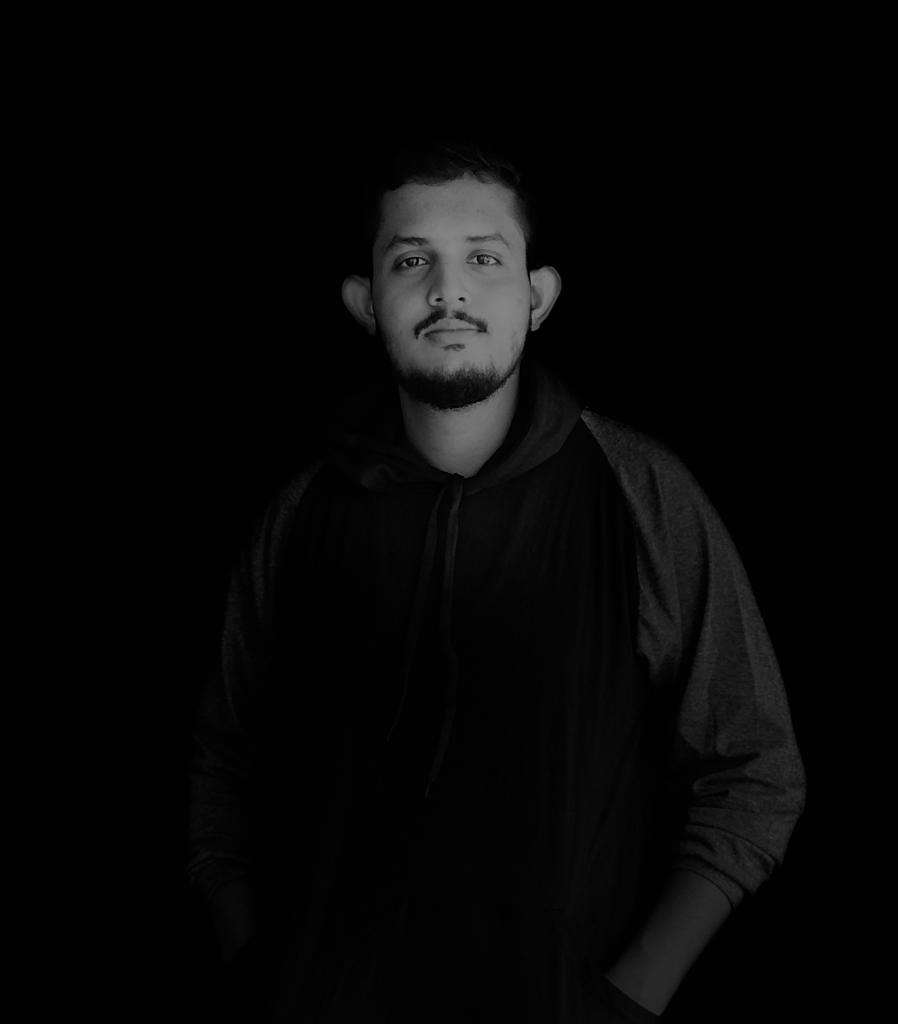
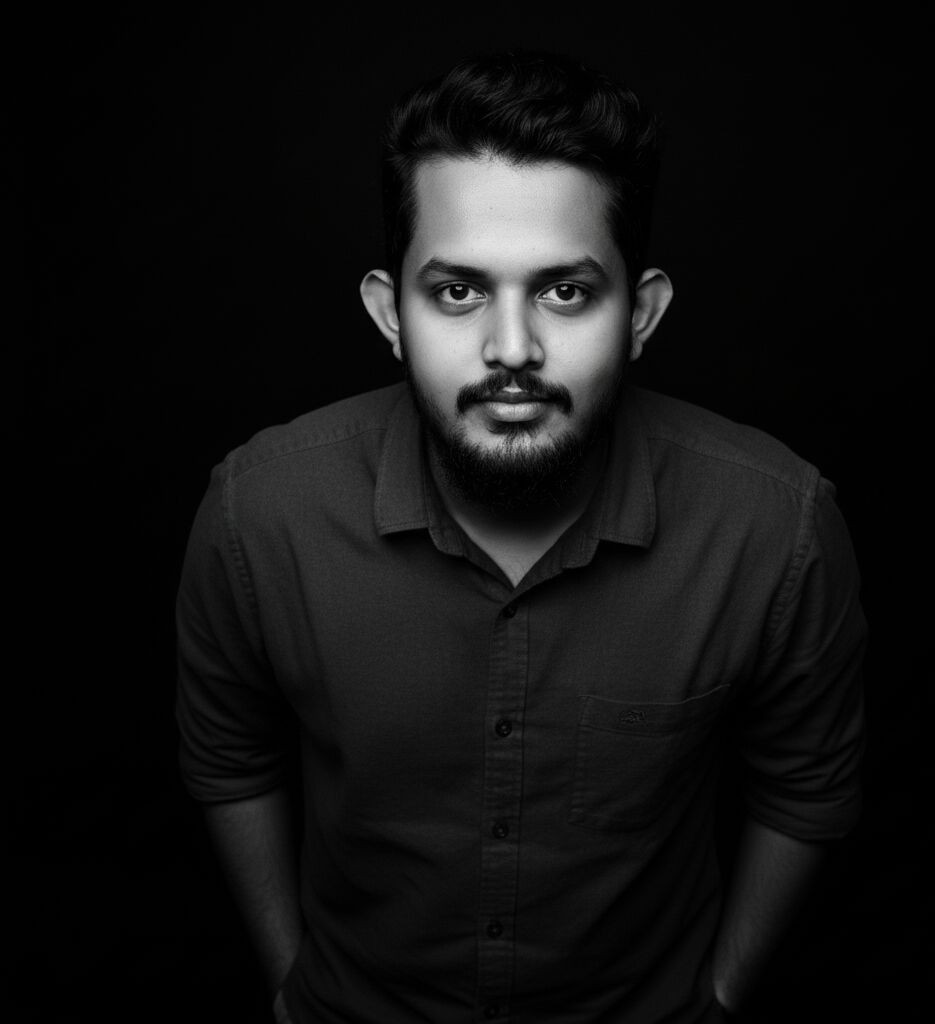
added 2 projects

diff --git a/index.html b/index.html
@@ -185,9 +185,16 @@
         left: 0;
         width: 100%;
         height: 100%;
-        background-image: url(img/parallax-hero.jpg);
+        background-image: 
+        /* linear-gradient(to bottom,#040404 15%,transparent 40%), */
+        /* linear-gradient(to right,#040404 10%,transparent 40%), */
+        /* linear-gradient(to left,#040404 10%,transparent 40%), */
+        /* linear-gradient(to top,#040404 15%,transparent 40%), */
+        url(img/parallax-hero.jpg);
+        /* linear-gradient(to bottom,#040404); */
         background-size: cover;
-        background-position: top;
+        background-repeat: no-repeat;
+        background-position:top center;
         background-attachment: fixed;
         z-index: -1;
         /* Make sure the background is behind the content */
@@ -195,16 +202,11 @@
 
       .hero-content {
         position: absolute;
-        top: 50%;
+        bottom: 0%;
         left: 50%;
-        transform: translate(-50%, -50%);
+        transform: translate(-50%, 0%);
         text-align: center;
         color: white;
-        background: linear-gradient(
-          transparent,
-          rgba(0, 0, 0, 0.6),
-          transparent
-        );
       }
 
       .hero-content h1 {
@@ -219,8 +221,89 @@
       .hero-content p {
         font-size: 1.5rem;
         font-family: "Skranji", cursive;
+        text-shadow: 0.2rem 0.2rem black;
+        letter-spacing: 0.2rem;
       }
+      /*============================================ image popup modal =========================================== */
+/* Popup Modal Styles */
+        .image-modal-overlay {
+            display: none;
+            position: fixed;
+            top: 0;
+            left: 0;
+            width: 100%;
+            height: 100%;
+            background-color: rgba(0, 0, 0, 0.9);
+            z-index: 10000;
+            justify-content: center;
+            align-items: center;
+            opacity: 0;
+            transition: opacity 0.3s ease;
+        }
 
+        .image-modal-overlay.active {
+            display: flex;
+            opacity: 1;
+        }
+
+        .image-modal-content {
+            max-width: 90vw;
+            max-height: 90vh;
+            border-radius: 8px;
+            box-shadow: 0 5px 25px rgba(0, 0, 0, 0.3);
+            transform: scale(0.9);
+            transition: transform 0.3s ease;
+        }
+
+        .image-modal-overlay.active .image-modal-content {
+            transform: scale(1);
+        }
+
+        .image-modal-close {
+            position: absolute;
+            top: 25px;
+            right: 25px;
+            color: white;
+            font-size: 32px;
+            cursor: pointer;
+            background: rgba(0, 0, 0, 0.6);
+            width: 45px;
+            height: 45px;
+            border-radius: 50%;
+            display: flex;
+            justify-content: center;
+            align-items: center;
+            transition: all 0.3s ease;
+            z-index: 10001;
+        }
+
+        .image-modal-close:hover {
+            background: rgba(0, 0, 0, 0.8);
+            transform: rotate(90deg);
+        }
+
+        .image-modal-caption {
+            position: absolute;
+            bottom: 20px;
+            left: 0;
+            width: 100%;
+            text-align: center;
+            color: white;
+            font-size: 18px;
+            padding: 10px;
+            background: linear-gradient(transparent, rgba(0, 0, 0, 0.7));
+        }
+
+        /* Make images clickable */
+        .clickable-image {
+            cursor: pointer;
+            transition: all 0.3s ease;
+        }
+
+        .clickable-image:hover {
+            transform: scale(1.03);
+            box-shadow: 0 5px 15px rgba(0, 0, 0, 0.2);
+        }
       /*=========================================== project section=========================================== */
 
       .project-image {
@@ -606,8 +689,9 @@
               <div id="profile" class="text-center">
                 <img
                   src="img/profile-picture.png"
-                  class="border border-dark border-5"
+                  class="clickable-image border border-dark border-5"
                   alt="Profile Picture"
+                  onclick="openImageModal('img/profile-picture.png', 'Mohammed Anwar - Web Developer')"
                 />
                 <h4 class="profile-name mt-3">Mohd. Anwar</h4>
                 <p class="profile-designation text-muted">Web Developer</p>
@@ -686,20 +770,30 @@
               <div class="parallax-bg"></div>
               <div class="hero-content rounded-3 py-4">
                 <h1>Mohammed Anwar</h1>
-                <p>
+                <!--
+                 <p> 
                   I am a passionate and creative web developer dedicated to
                   crafting engaging and user-friendly websites. With expertise
                   in front-end and back-end development, I bring ideas to life
                   and deliver impactful digital experiences.
                 </p>
+                -->
+
+
+                <!--
                 <p class="text-warning d-none d-md-block">
-                  <!-- content comes from typewriter library -->
                   <i
                     class="bi bi-briefcase text-danger h2"
                     style="filter: drop-shadow(0.2rem 0.2rem 0.2rem red)"
                   ></i>
-                  <span id="typewriter"></span>
+                  <span id="currentStatusTypeWriter"></span>
                 </p>
+                -->
+
+                <!--my designation typewriter effect-->
+                <p id="myDesignationTypeWriter"></p>
+
+
               </div>
             </section>
           </section>
@@ -788,10 +882,6 @@
             <div id="freelance-projects"></div>
             <div id="training-projects"></div>
 
-            <p>
-              and many other MERN stack,Django and PHP ecommerce non-live
-              projects...
-            </p>
           </section>
           <!--ends projects section-->
 
@@ -1402,6 +1492,63 @@
       </div>
     </div>
 
+    
+ <!-- The Reusable Image Modal -->
+    <div id="imageModal" class="image-modal-overlay" onclick="closeImageModal()">
+        <span class="image-modal-close" onclick="closeImageModal()">&times;</span>
+        <img class="image-modal-content" id="modalImage" src="" alt="Enlarged view">
+        <div class="image-modal-caption" id="modalCaption"></div>
+    </div>
+
+    <!-- Reusable Image Modal script -->
+    <script>
+        // Function to open the image modal
+        function openImageModal(imageUrl, captionText = '') {
+            const modal = document.getElementById('imageModal');
+            const modalImg = document.getElementById('modalImage');
+            const caption = document.getElementById('modalCaption');
+            
+            // Set image source and caption
+            modalImg.src = imageUrl;
+            caption.textContent = captionText;
+            
+            // Show modal with animation
+            modal.classList.add('active');
+            
+            // Prevent body from scrolling when modal is open
+            document.body.style.overflow = 'hidden';
+        }
+
+        // Function to close the image modal
+        function closeImageModal() {
+            const modal = document.getElementById('imageModal');
+            
+            // Hide modal with animation
+            modal.classList.remove('active');
+            
+            // Re-enable body scrolling after transition completes
+            setTimeout(() => {
+                document.body.style.overflow = 'auto';
+            }, 300);
+        }
+
+        // Close modal when pressing Escape key
+        document.addEventListener('keydown', function(event) {
+            if (event.key === 'Escape') {
+                closeImageModal();
+            }
+        });
+
+        // Prevent modal from closing when clicking on the image or caption
+        document.getElementById('modalImage').addEventListener('click', function(event) {
+            event.stopPropagation();
+        });
+        
+        document.getElementById('modalCaption').addEventListener('click', function(event) {
+            event.stopPropagation();
+        });
+    </script>
+
     <script>
       // Function to hide Div A
       function hideLoader() {
@@ -1528,9 +1675,9 @@
         });
     </script>
 
-    <!-- script to enable typewriter effect -->
+    <!-- script to enable typewriter effect on  -->
     <script>
-      var app = document.getElementById("typewriter");
+      var app = document.getElementById("currentStatusTypeWriter");
 
       var typewriter = new Typewriter(app, {
         loop: false,
@@ -1543,6 +1690,37 @@
         )
         .start();
     </script>
+
+    <!-- typewriter effect on my designation -->
+     <script>
+  var app = document.getElementById("myDesignationTypeWriter");
+
+  var typewriter = new Typewriter(app, {
+    loop: true,
+    delay: 50,
+    deleteSpeed: 30,
+  });
+
+  typewriter
+   .typeString('I am a ')
+    .pauseFor(300)
+    .typeString('ReactJS Developer')
+    .pauseFor(1500)
+    .deleteChars(17) // Delete "ReactJS Developer"
+    .typeString('Frontend Developer')
+    .pauseFor(1500)
+    .deleteChars(18) // Delete "Frontend Developer"
+    .typeString('Full Stack Developer')
+    .pauseFor(1500)
+    .deleteChars(20) // Delete "Full Stack Developer"
+    .typeString('UI/UX Designer')
+    .pauseFor(1500)
+    .deleteChars(14) // Delete "UI/UX Designer"
+    .typeString('MERN Stack Developer')
+    .pauseFor(1500)
+    .deleteChars(21) // Delete "MERN Stack Developer"
+    .start();
+</script>
 
     <!-- script to generate project cards -->
     <!-- Include portfolio data -->

diff --git a/portfolio-projects.js b/portfolio-projects.js
@@ -8,7 +8,7 @@ const portfolioData = {
           "id": null,
           "projectTitle": "Real Estate | ReactJS",
           "projectDescription": "This is a comprehensive main real estate platform developed to client - HOABL, showcasing a wide range of properties for potential buyers. The site, built using React.js, Redux, and Material-UI (MUI), features detailed property listings, advanced search filters, and interactive maps to help users find their ideal properties.",
-          "technologyIcons": ["reactjs", "typescript", "mui", "html", "css", "api"],
+          "technologyIcons": ["reactjs", "typescript", "mui", "redux", "html", "css", "api"],
           "projectImage": "ss-hoabl-main-site.png",
           "liveURL": "https://www.hoabl.com/",
           "sourceCode": ""
@@ -17,7 +17,7 @@ const portfolioData = {
           "id": null,
           "projectTitle": "Real Estate CMS | ReactJS",
           "projectDescription": "RealEstateCMS is a robust content management system designed to streamline the management of the client’s real estate listings. Developed with React.js, Redux, and MUI, it allows administrators to add or remove properties, modify prices, update locations, and manage other critical information. This tool ensures that the main real estate site is always up-to-date with the latest property information.",
-          "technologyIcons": ["reactjs", "typescript", "mui", "html", "css", "api"],
+          "technologyIcons": ["reactjs", "typescript", "mui", "redux", "html", "css", "api"],
           "projectImage": "ss-hoabl-CMS.png",
           "liveURL": "https://cms-panel.hoabl.in/",
           "sourceCode": ""
@@ -26,7 +26,7 @@ const portfolioData = {
           "id": null,
           "projectTitle": "Payment Gateway Site | ReactJS",
           "projectDescription": "This web application serves as a secure payment gateway integrated across Android, iOS, and web platforms. Utilizing React.js, Redux, and Material-UI (MUI) for the web interface, the system facilitates seamless financial transactions for property purchases listed on the main Real Estate website.",
-          "technologyIcons": ["reactjs", "typescript", "mui", "html", "css", "api"],
+          "technologyIcons": ["reactjs", "typescript", "mui", "redux", "html", "css", "api"],
           "projectImage": "ss-hoabl-payments.png",
           "liveURL": "https://payments.hoabl.in/login/login",
           "sourceCode": ""
@@ -217,6 +217,24 @@ const portfolioData = {
             }
           ],
         },
+        {
+          "id": null,
+          "projectTitle": "Title Generator MERN stack AI app",
+          "projectDescription": "A responsive MERN stack, AI powered application that generates catchy titles based on user-provided long story. The app utilizes NLP Cloud API's AI headline generation model. Beuilt with Reacjs+Typescript,SCSS,MUI,Framer Moton for UI, Redux+Thunk for state management, and Node.js+Express.js for the backend.",
+          "technologyIcons": ["mongodb", "expressjs", "reactjs", "nodejs", "typescript", "mui", "redux", "sass", "framer-motion", "html", "css", "api"],
+          "projectImage": "ss-title-nova-mern-stack.png",
+          "liveURL": "https://title-nova-mern.vercel.app/",
+          "sourceCode": "",
+        },
+        {
+          "id": null,
+          "projectTitle": "TapTask CRM: Modern Lead Management Dashboard",
+          "projectDescription": "A responsive, modern React.js dashboard for lead management, built by meticulously implementing a professional Figma design. The application efficiently displays and filters lead data fetched from a public API, featuring a clean UI with shadcn/ui components, state management via Zustand, and a fully responsive layout powered by Tailwind CSS.",
+          "technologyIcons": ["reactjs", "shadcn-ui","tailwind-css", "zustand", "html", "css", "api"],
+          "projectImage": "ss-tap-task-crm.png",
+          "liveURL": "https://tap-task-by-anwar.vercel.app/",
+          "sourceCode": "",
+        },
 
       ]
     }
@@ -281,7 +299,7 @@ function generateCards(data) {
         </div>
       </div>
      <div onClick="window.open('${project.liveURL || project.sourceCode}', '_blank')" class="project-image col-md-3 col-lg-3 border-1 border"
-    style="background-image: url('img/${project.projectImage}');">
+    style="background-image: url('img/${project.projectImage}'); ">
     <a class="project-image-redirect-button" onClick="window.open('${project.liveURL || project.sourceCode}', '_blank')"><i class="bi bi-hand-index-thumb"></i></a>
   </div>
     </div>
